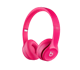
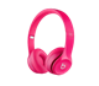
cambiar tamaño de icono

diff --git a/Ejercicios-6/src/components/Search/Search.module.css b/Ejercicios-6/src/components/Search/Search.module.css
@@ -1,6 +1,5 @@
 .container{
     width: 100%;
-    height: 7rem;
     display: flex;
     justify-content: space-between;
     flex-direction: column;
@@ -9,14 +8,13 @@
 .form{
     display: flex;  
     width: 100%;
-    height: 3rem;
     justify-content: center;
     align-items: center;
 }
 
 .input{
-    width: 84%;
-    height: 3.7rem;
+    width: 80%;
+    height: 3em;
     margin-right: 0.50rem;
     font-size: 20px;
     background-color: #FFFF;
@@ -24,7 +22,7 @@
     border: none;
     font-family: 'Baloo 2', cursive;
     border-radius: 0.5rem;
-    padding-left: 2rem;
+    padding-left: 3rem;
     text-align:start;
     outline:none;
     box-shadow: rgba(0, 0, 0, 0.1) 0px 1px 3px 0px, rgba(0, 0, 0, 0.06) 0px 1px 2px 0px;
@@ -40,26 +38,25 @@
     display: flex;
     align-items: center;
     justify-content: center;
-    position: absolute;
-    right: 19.2rem;
+    /* position: absolute;
+    right: 19.2rem; */
     width: 8%;
-    height: 3.6rem;
+    height: 3em;
     border-radius: 0.5rem;
     text-align: center;
-    background-color: #FFFF;
-    color: #ECA5B1;
+    background-color: #FA7EAE;
+    color: #EDEDED;
     font-size: 22px;
     font-family: 'Baloo 2', cursive;
     font-weight: 600;
     cursor: pointer;
     border: none;
-    -webkit-transition: box-shadow 300ms ease-in-out, color 300ms ease-in-out;
-    transition: box-shadow 300ms ease-in-out, color 300ms ease-in-out;
+    transition: background-color 300ms ease-in-out, color 300ms ease-in-out;
 }
 
 .boton:hover{
-    box-shadow: 0 0 40px 40px #ECA5B1 inset;
-    color: #EDEDED;
+    background-color: #FFFF;
+    color: #FA7EAE;
 }
 
 .boton p{
@@ -78,8 +75,8 @@
     cursor: pointer;
     color: white;
     font-size: 20px;
-    border: 2px solid #c6214a;
+    border: 2px solid #FA7EAE;
     outline: none;
     font-family: 'Baloo 2', cursive;
-    background-color: #c6214a;
+    background-color: #FA7EAE;
 }

diff --git a/Ejercicios-6/src/components/ProductList/ProductList.module.css b/Ejercicios-6/src/components/ProductList/ProductList.module.css
@@ -5,7 +5,7 @@
     display: flex;
     justify-content: center;
     flex-wrap: wrap;
-    gap: 8rem;
+    gap: 8em;
 
     /* display: grid;
     grid-template-columns: repeat(3, auto);

diff --git a/Ejercicios-6/src/components/NavBar/NavBar.module.css b/Ejercicios-6/src/components/NavBar/NavBar.module.css
@@ -33,11 +33,6 @@
     cursor: pointer;
 }
 
-.navbar button:hover{
-    border-bottom: 3px solid #c6214a; 
-}
-
-
 .banner{
     display: flex;
     align-items: flex-end;
